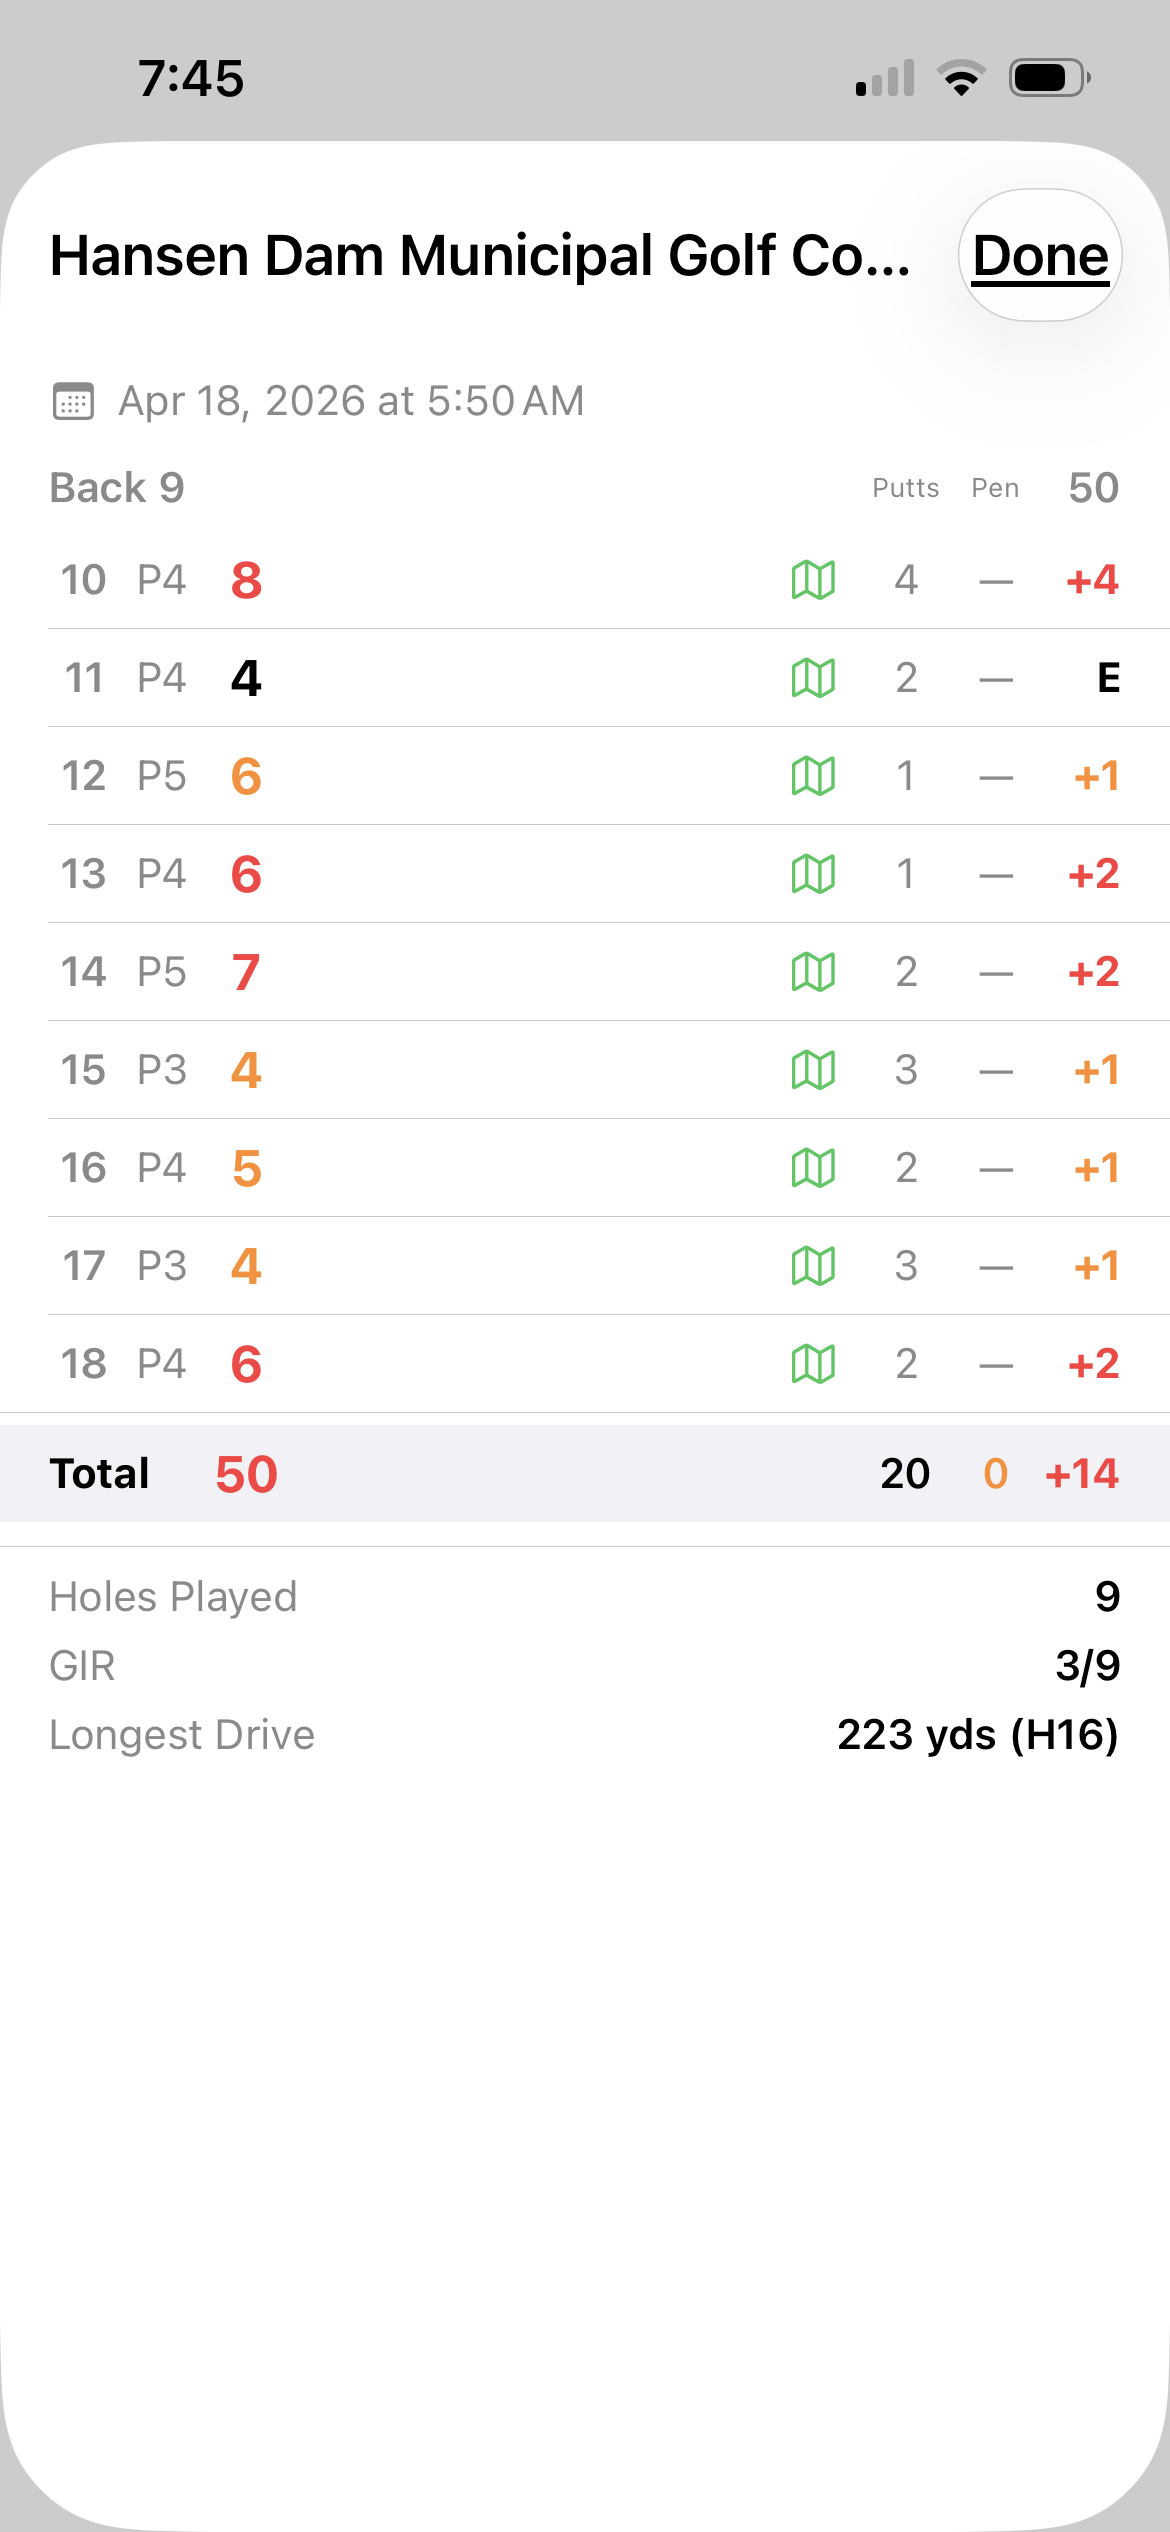
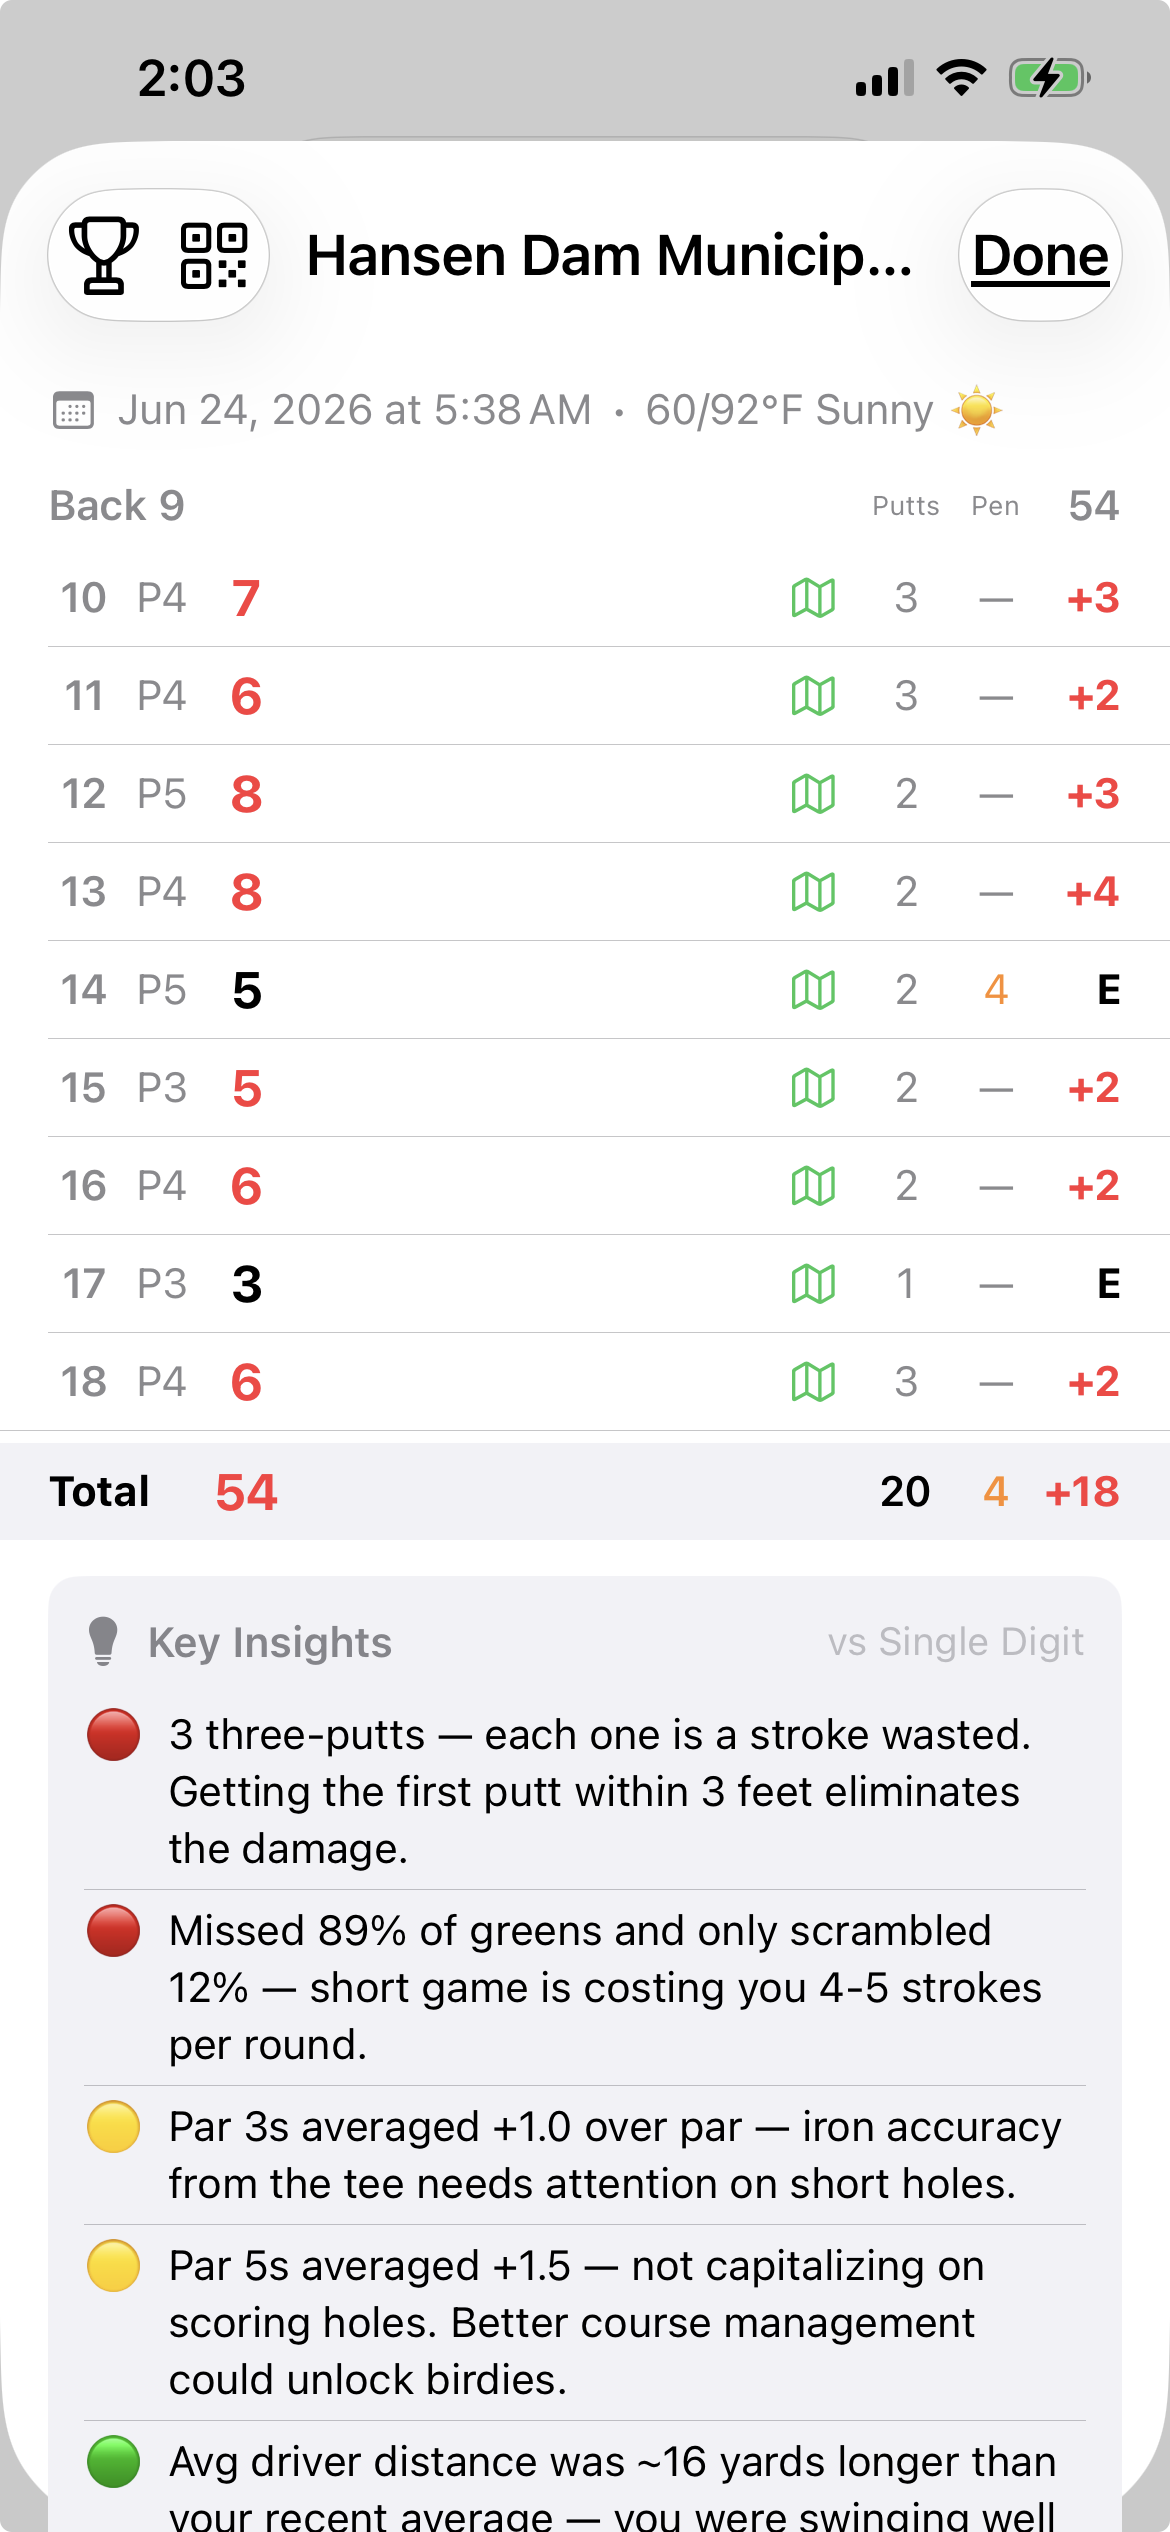
update manual

diff --git a/MANUAL.md b/MANUAL.md
@@ -11,7 +11,8 @@
 7. [Apple Watch](#7-apple-watch)
 8. [Exploring Courses](#8-exploring-courses)
 9. [Syncing to Desktop](#9-syncing-to-desktop)
-10. [Tips](#tips)
+10. [Tournaments](#10-tournaments)
+11. [Tips](#tips)
 
 ---
 
@@ -158,7 +159,7 @@ Use the **< >** arrows in the hole info bar to move between holes. You can go ba
 
 Tap the **Scorecards** tab to see all completed rounds. Each card shows the course name, date, total score, and score vs par.
 
-</td></tr>
+</td><td valign="top"><img src="screenshots/scorecard-list.png" width="220"></td></tr>
 </table>
 
 <table>
@@ -168,7 +169,31 @@ Tap the **Scorecards** tab to see all completed rounds. Each card shows the cour
 
 Tap a round to see the full scorecard with per-hole breakdown: score, putts, and penalties per hole. Stats are shown below the table: holes played, GIR, and longest drive. The course name is followed by the date and weather conditions (temperature and sky condition recorded at round end).
 
+The toolbar shows:
+- **QR icon** — share your score as a QR code for tournament hosts to scan
+- **Trophy icon** — create a tournament from this round (see [Tournaments](#10-tournaments))
+
 </td><td valign="top"><img src="screenshots/score-card-detail.png" width="220"></td></tr>
+</table>
+
+<table>
+<tr><td valign="top"><img src="screenshots/qr-code.png" width="220"></td><td valign="top" width="60%">
+
+### Step 11a: Share Score via QR
+
+Tap the **QR icon** in the scorecard detail toolbar to display a QR code containing your per-hole scores. Have the tournament host scan it with their device to import your round into the tournament.
+
+</td></tr>
+</table>
+
+<table>
+<tr><td valign="top" width="60%">
+
+### Step 11b: Key Insights
+
+Scroll down past the shot map in the scorecard detail to see key insights for the round — patterns and stats derived from your shot data.
+
+</td><td valign="top"><img src="screenshots/keyinsights.png" width="220"></td></tr>
 </table>
 
 <table>
@@ -398,6 +423,50 @@ GoBirdie syncs rounds to the [GoBirdie Desktop](https://github.com/nicechester/G
 4. The desktop discovers the iPhone automatically and pulls all new rounds
 
 Round data includes shot positions, club selections, heart rate, altitude, and green center coordinates. The desktop app provides timeline charts, shot analysis, and course statistics.
+
+---
+
+## 10. Tournaments
+
+Tournaments let you compare scores with other players. The host creates a tournament from their own round, then scans each player's QR code to import their scores.
+
+<table>
+<tr><td valign="top" width="60%">
+
+### Step 27: Switch to Tournaments
+
+In the **Scorecards** tab, tap **Tournaments** in the segmented picker at the top to switch to the tournaments list.
+
+</td><td valign="top"><img src="screenshots/tournaments-list.png" width="220"></td></tr>
+</table>
+
+<table>
+<tr><td valign="top"><img src="screenshots/tournament-scorecards.png" width="220"></td><td valign="top" width="60%">
+
+### Step 28: Create a Tournament
+
+Tap **+** to create a new tournament, or tap the **trophy icon** in any scorecard detail to instantly create a tournament from that round. Your own round is added automatically as the first player.
+
+Once inside the tournament detail:
+- Tap the **QR scanner icon** (top-left) to scan another player's QR code
+- Tap **+** (top-left) to add a player manually by name
+- Tap **Done** (top-right) when finished
+
+</td></tr>
+</table>
+
+<table>
+<tr><td valign="top" width="60%">
+
+### Step 29: Manage Players
+
+Long-press any player row to open the action menu:
+- **Edit Scores** — adjust per-hole strokes manually
+- **Rename** — change the player's display name
+- **Remove** — remove the player from the tournament
+
+</td><td valign="top"><img src="screenshots/tournament-context-menu.png" width="220"></td></tr>
+</table>
 
 ---
 
